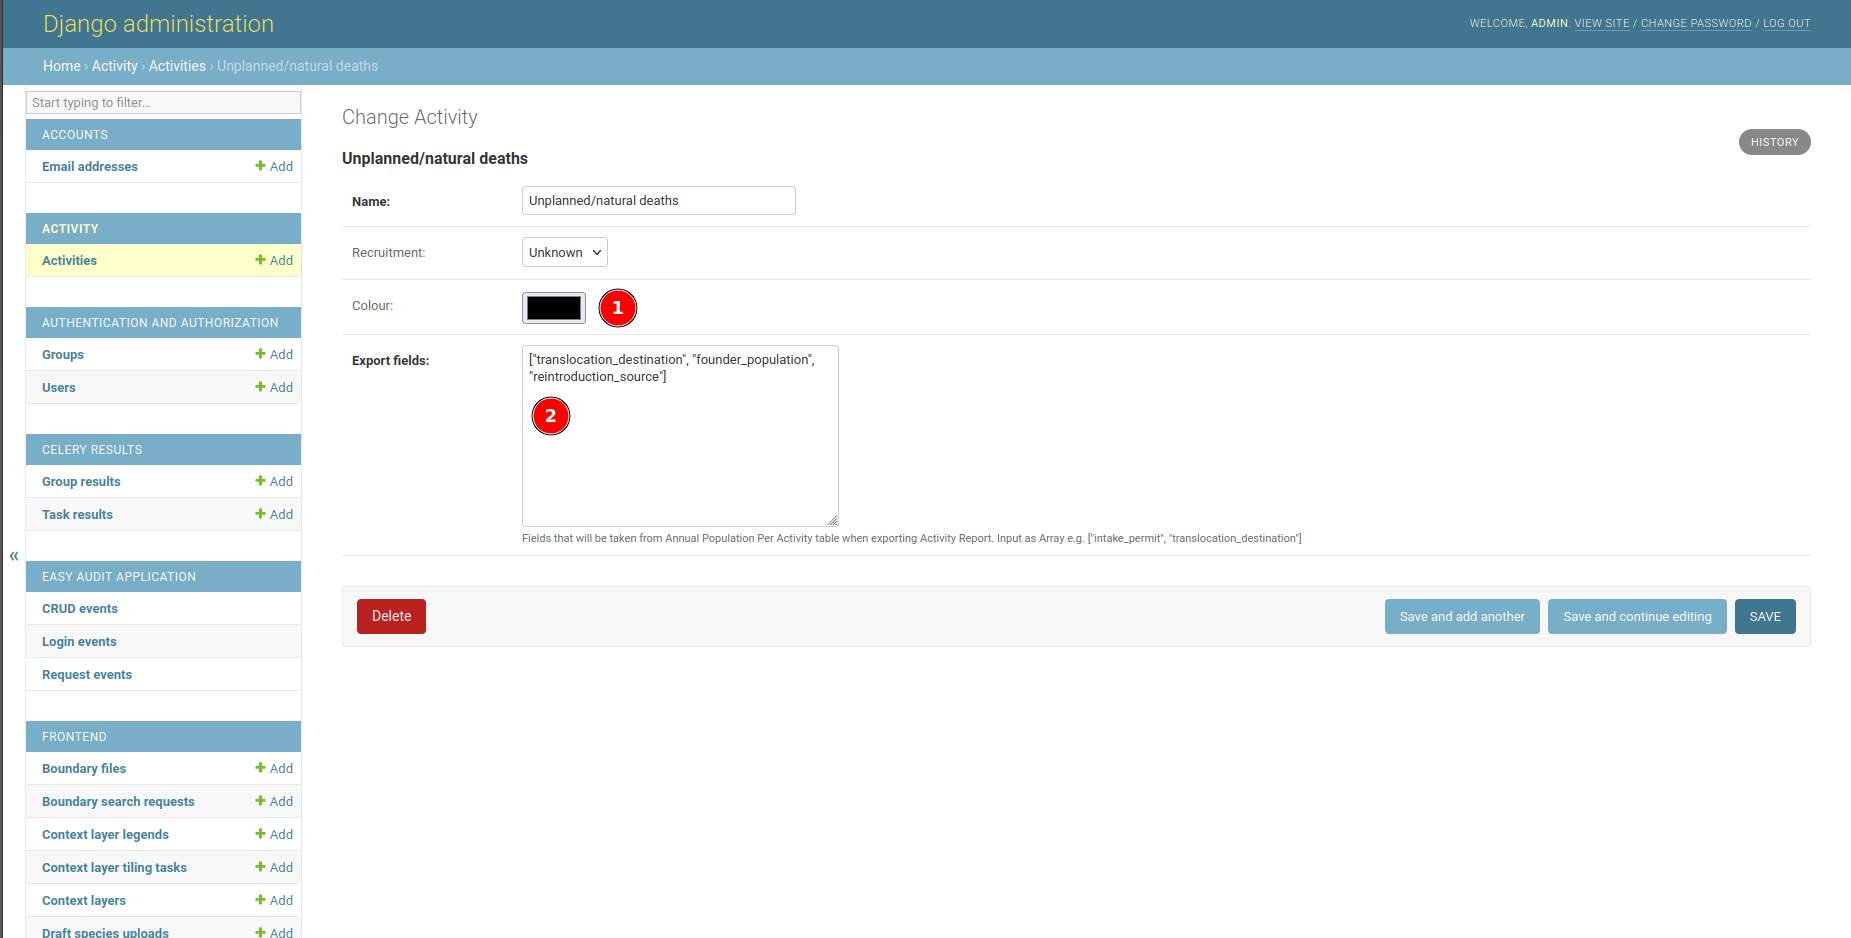
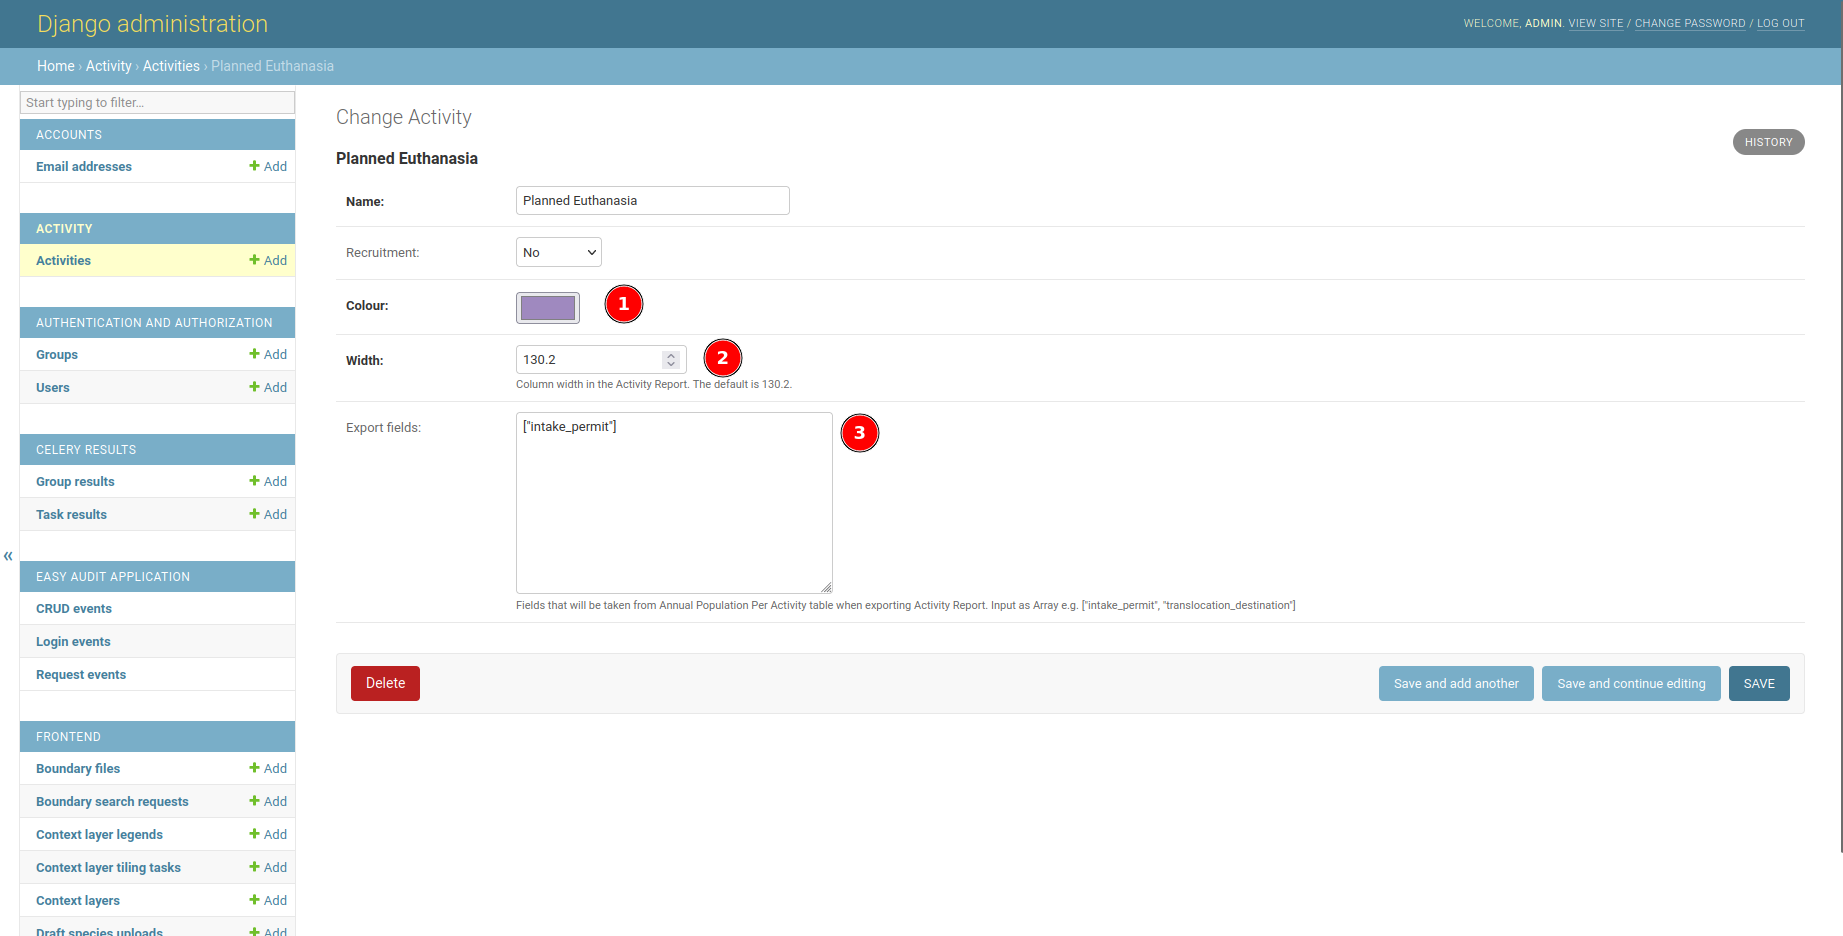
Add width and get activity type width from endpoint.

diff --git a/django_project/frontend/src/containers/MainPage/Data/index.tsx b/django_project/frontend/src/containers/MainPage/Data/index.tsx
@@ -25,7 +25,17 @@ const MenuProps = {
     },
 };
 
+interface ActivityInterface {
+    id: number,
+    name: string,
+    recruitment: boolean,
+    colour: string,
+    width: number,
+    export_fields: string[]
+}
+
 const FETCH_AVAILABLE_DATA = '/api/data-table/'
+const FETCH_ACTIVITY_LIST_URL = '/api/activity-type/'
 
 const DataList = () => {
     const selectedSpecies = useAppSelector((state: RootState) => state.SpeciesFilter.selectedSpecies)
@@ -51,7 +61,7 @@ const DataList = () => {
     const propertyId = useAppSelector((state: RootState) => state.SpeciesFilter.propertyId)
     const organisationId = useAppSelector((state: RootState) => state.SpeciesFilter.organisationId)
     const activityId = useAppSelector((state: RootState) => state.SpeciesFilter.activityId)
-    const customColorWidth =
+    const defaultColorWidth =
         {
         "Species_report":{color:"#F9A95D",width:107},
         "Property_report": {color:'#9F89BF',width:131},
@@ -62,17 +72,34 @@ const DataList = () => {
         "Unplanned/natural deaths": {color:"#75B37A",width:106.5},
         "Planned translocation": {color:"#F9A95D",width:106.5},
         "Planned hunt/cull": {color:"#FF5252",width:130.2},
-        "Planned euthanasia": {color:"#9F89BF",width:130.2},
+        "Planned Euthanasia": {color:"#9F89BF",width:130.2},
         "Unplanned/illegal hunting": {color:"#696969",width:147}
     }
+
+    const [customColorWidth, setCustomColorWidth] = useState<any>(defaultColorWidth)
 
     function checkUserRole(userRole: string) {
         const allowedRoles = ["Organisation member", "Organisation manager", "National data scientist", "Regional data scientist", "Super user"];
         return allowedRoles.includes(userRole);
     }
 
+    const fetchActivityList = () => {
+        setLoading(true)
+        axios.get(FETCH_ACTIVITY_LIST_URL).then((response) => {
+            setLoading(false)
+            setCustomColorWidth({
+                ...customColorWidth,
+                ...Object.assign({}, ...response.data.map((x: ActivityInterface) => ({[x.name]: {color: x.colour, width: x.width}})))
+            })
+        }).catch((error) => {
+            setLoading(false)
+            console.log(error)
+        })
+    }
+
     useEffect(() => {
         const storedUserRole = localStorage.getItem('user_role');
+        fetchActivityList()
         setUserRole(storedUserRole);
     }, []);
 

diff --git a/django_project/frontend/tests/test_activity_types.py b/django_project/frontend/tests/test_activity_types.py
@@ -5,7 +5,7 @@ from django_otp.plugins.otp_totp.models import TOTPDevice
 from rest_framework import status
 
 
-class TestOrganisationAPIView(TestCase):
+class TestActivityAPIView(TestCase):
     fixtures = [
         'activity_type.json'
     ]
@@ -31,28 +31,32 @@ class TestOrganisationAPIView(TestCase):
                 "id": 1,
                 "name": "Other",
                 "recruitment": None,
-                "colour": None,
+                "colour": "#000000",
+                "width": 130.2,
                 "export_fields": [],
             },
             {
                 "id": 3,
                 "name": "Planned Euthanasia/DCA",
-                "recruitment": None,
-                "colour": None,
+                "recruitment": False,
+                "colour": "#9F89BF",
+                "width": 130.2,
                 "export_fields": ["intake_permit"],
             },
             {
                 "id": 4,
                 "name": "Planned Hunt/Cull",
-                "recruitment": None,
-                "colour": None,
+                "recruitment": False,
+                "colour": "#000000",
+                "width": 130.2,
                 "export_fields": ["intake_permit"],
             },
             {
                 "id": 5,
                 "name": "Translocation (Intake)",
-                "recruitment": None,
-                "colour": None,
+                "recruitment": True,
+                "colour": "#F9A95D",
+                "width": 106.5,
                 "export_fields": [
                     "intake_permit",
                     "translocation_destination",
@@ -62,8 +66,9 @@ class TestOrganisationAPIView(TestCase):
             {
                 "id": 6,
                 "name": "Translocation (Offtake)",
-                "recruitment": None,
-                "colour": None,
+                "recruitment": False,
+                "colour": "#F9A95D",
+                "width": 106.5,
                 "export_fields": [
                     "translocation_destination",
                     "founder_population",
@@ -73,9 +78,22 @@ class TestOrganisationAPIView(TestCase):
             {
                 "id": 2,
                 "name": "Unplanned/Illegal Hunting",
-                "recruitment": None,
-                "colour": None,
+                "recruitment": False,
+                "colour": "#696969",
+                "width": 130.2,
                 "export_fields": [],
+            },
+            {
+                "id": 7,
+                "name": "Unplanned/natural deaths",
+                "recruitment": None,
+                "colour": "#75B37A",
+                "width": 130.2,
+                "export_fields": [
+                    "translocation_destination",
+                    "founder_population",
+                    "reintroduction_source",
+                ],
             },
         ]
 

diff --git a/django_project/activity/migrations/0002_activitytype_colour_activitytype_export_fields_and_more.py b/django_project/activity/migrations/0002_activitytype_colour_activitytype_export_fields_and_more.py
@@ -1,4 +1,4 @@
-# Generated by Django 4.1.10 on 2023-10-11 04:48
+# Generated by Django 4.1.10 on 2023-10-12 00:09
 
 from django.db import migrations, models
 
@@ -12,14 +12,23 @@ class Migration(migrations.Migration):
         migrations.AddField(
             model_name="activitytype",
             name="colour",
-            field=models.CharField(blank=True, max_length=20, null=True),
+            field=models.CharField(default="#000000", max_length=20),
         ),
         migrations.AddField(
             model_name="activitytype",
             name="export_fields",
             field=models.JSONField(
+                blank=True,
                 default=list,
                 help_text='Fields that will be taken from Annual Population Per Activity table when exporting Activity Report. Input as Array e.g. ["intake_permit", "translocation_destination"]',
+            ),
+        ),
+        migrations.AddField(
+            model_name="activitytype",
+            name="width",
+            field=models.FloatField(
+                default=130.2,
+                help_text="Column width in the Activity Report. The default is 130.2.",
             ),
         ),
     ]

diff --git a/django_project/activity/models.py b/django_project/activity/models.py
@@ -11,7 +11,16 @@ class ActivityType(models.Model):
 
     name = models.CharField(max_length=150, unique=True)
     recruitment = models.BooleanField(null=True, blank=True)
-    colour = models.CharField(max_length=20, null=True, blank=True)
+    colour = models.CharField(
+        max_length=20,
+        default='#000000'
+    )
+    width = models.FloatField(
+        default=130.2,
+        help_text=(
+            'Column width in the Activity Report. The default is 130.2.'
+        )
+    )
     export_fields = models.JSONField(
         default=list,
         help_text=(
@@ -19,7 +28,8 @@ class ActivityType(models.Model):
             'Per Activity table when exporting Activity Report. '
             'Input as Array e.g. '
             '["intake_permit", "translocation_destination"]'
-        )
+        ),
+        blank=True
     )
 
     def __str__(self):

diff --git a/django_project/activity/admin.py b/django_project/activity/admin.py
@@ -16,6 +16,7 @@ class ActivityTypeAdmin(admin.ModelAdmin):
     list_display = [
         'name',
         'recruitment',
+        'width',
         'display_color',
         'display_export_fields'
     ]

diff --git a/docs/src/administrator/manual/django-admin.md b/docs/src/administrator/manual/django-admin.md
@@ -44,8 +44,9 @@ _![Activities Table](./img/admin-5.png)_
 
 This table is used to store existing activity types e.g. `Unplanned/natural deaths`.
 
-1. **Colour**: Used as color identifier in reports and charts.
-2. **Export fields**: Used as export fields in Activity Report. The value should be an array/list, containing 
+1. **Colour**: Used as color identifier in reports and charts. The default is black (`#000000`).
+2. **Width**: Column width in the Activity Report.
+3. **Export fields**: Used as export fields in Activity Report. The value should be an array/list, containing 
 `Annual Population Per Activity` field to export. Currently available fields are:
     * founder_population
     * reintroduction_source
@@ -55,3 +56,5 @@ This table is used to store existing activity types e.g. `Unplanned/natural deat
 
 This is an example of correct **Export fields** value:
 `["translocation_destination", "founder_population"]`
+
+Any update on this table will be reflected on the [Activity Report](../../user/manual/explore/reports.md).

diff --git a/docs/src/user/manual/explore/reports.md b/docs/src/user/manual/explore/reports.md
@@ -37,7 +37,7 @@ The main area of the page displays your dataset in a tabular format. Each row re
 
 Activity Report columns consisted of base columns and custom columns.
 1. **Base columns**: Hardcoded.
-2. **Custom columns**: Configurable from the Django admin site. 
+2. **Custom columns**: Configurable from the Django admin site by the site administrator. 
 See Activities section in the [Django Admin](../../../administrator/manual/django-admin.md) for the details.
 
 ### Summary
